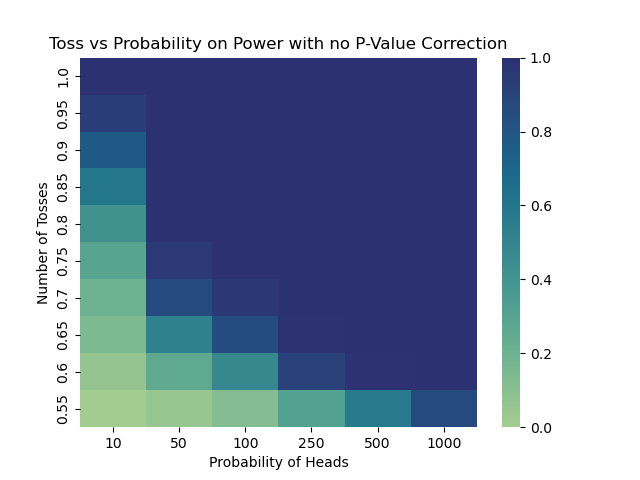
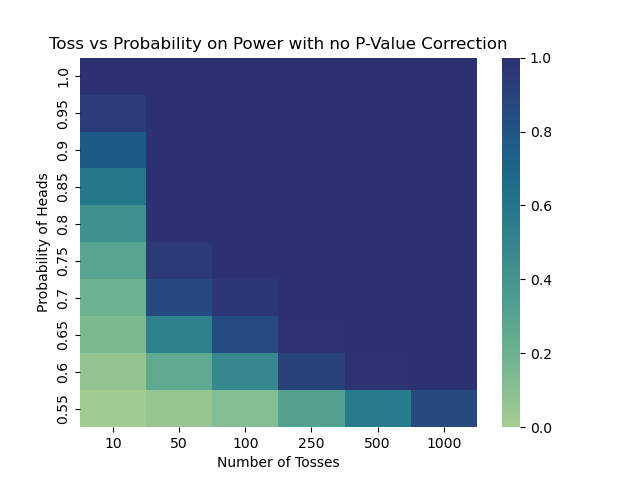
day4-hw update

Changed region(s): [[0.3125, 0.9375, 0.5625, 1.0], [0.0625, 0.3438, 0.0938, 0.6562]]

diff --git a/day4-homework/binomial_power_interactive_lecture.py b/day4-homework/binomial_power_interactive_lecture.py
@@ -98,8 +98,8 @@ for i, prob in enumerate(probabilities):
 fig, ax = plt.subplots()
 pallette = sns.color_palette("crest", as_cmap=True)
 ax = sns.heatmap(new_twodim_arr_noCor, vmin = 0, vmax = 1, cmap = pallette, xticklabels = tosses, yticklabels = probabilities)
-ax.set_ylabel("Number of Tosses")
-ax.set_xlabel("Probability of Heads")
+ax.set_xlabel("Number of Tosses")
+ax.set_ylabel("Probability of Heads")
 ax.set_title("Toss vs Probability on Power with no P-Value Correction")
 fig.savefig("NoPValCor.png")
 
